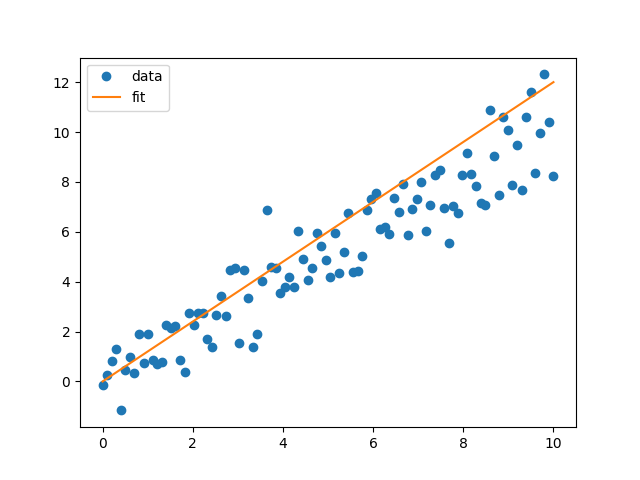
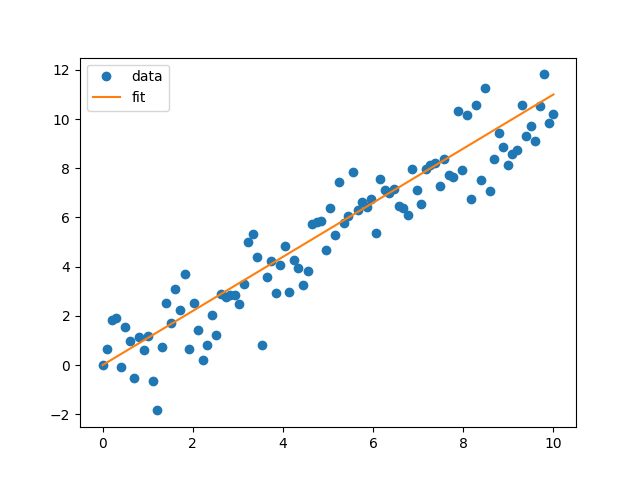
Quadratic line fit

diff --git a/_posts/2025-11-17-blog-post-3.md b/_posts/2025-11-17-blog-post-3.md
@@ -13,8 +13,9 @@ I have used Gaussian process and it being used extensively in fields such as ast
 
 In this blog post, I will give an introduction to Gaussian processes to a non-expert who are interested in learning and using this stastical tool.
 
-# Motivation: A straight line model
-We start with a simple linear model within the Bayesian framework. We will define the model as 
+# Motivation: A linear model
+
+Let's say that we have some data and we wish to fit out model to the data to infer its properties. We need a model that has the necessary flexibility to fit whatever shape our data is. If the data is simple enough, such as straight line with some noise, we can start with a simple linear model. We will define the model as 
 $$\begin{align}
 f(x) = \alpha_1 x + \alpha_0.
 \end{align}
@@ -58,7 +59,7 @@ y = x + np.random.normal(loc=0, scale=1, size=100)
 # fit the data
 result = minimize(
     neg_likelihood,
-    x0 = np.array([0., 1.2]),
+    x0 = np.array([0., 1.1]),
     args = (y, x),
 )
 params = result.x
@@ -72,21 +73,33 @@ plt.show()
 
 ```
 
-This is the data and the straight line fit. It looks pretty good.
+This is the data and the straight line fit. It looks pretty good. However, reality is never this simple and most of the time we don't get data that can be fit by a straight line. What do we do, we can start increase the complexity and make the model more flexible. 
 
 ![]({{ '/assets/images/straight_line_fit.png' | relative_url}})
 
+## Turn it up a notch: a quadratic model
+
+We will use a more complex model with a quadratic model
+$$\begin{align}
+f(x) = \alpha_1 x + \alpha_0.
+\end{align}
+$$
+We will make the same assumption as before that the data is distributed as a Gaussian distribution. Performing the same operation as above, maximising the likelihood with our new model $$f(x)$$. We get the following fit. 
+
+![]({{ '/assets/images/quadratic_line_fit.png' | relative_url}})
+
+Okay, so as the features in the data becomes more complex, we need more complex models to fit the data. This is the aim of the game, to make a very flexible model to fit all of these really complicated features in the data that reality my throw at us. A simple way is to keep adding more and more to your model. We have already done this so far by considering the $$n=1$$ and $$n=2$$ case for the polynomial case and then we add $$x^3$$ and $$x^4$$ and so on. 
 
 # Weight-space Formulation
 
-We can enhance this model by projecting the inputs into a higher dimensional feature space and apply our model there. We can apply a "kernel trick" to carry out the computation implicitly in the high dimensional space.
+We can start to get to what a Gaussian process is. We will begin our approach by creating a very flexible model by generalising the process of adding more features that we did in the previous section. 
 
-In our model $$\mu$$, we assume that there are a number of systematic effects that are not explicitly described by functions, but we know exists in the data. In other words, we don't know weight of each of those systematics. Hence, we assign an unknown weight $$w$$ for our systematics in our model
+In our new model $$\mu$$, we assume that there are a number of systematic effects that are not explicitly described by functions, but we know exists in the data. In other words, we don't know weight of each of those systematics. Hence, we assign an unknown weight $$w$$ for our systematics in our model
 
 $$\begin{align}
 f(\theta) = \mu(\theta) + A*w
 \end{align}$$
-where $$\theta$$ is the parameters, $$A$$ is called a design matrix. We can define a standard likelihood for our data with Gaussian noise
+where $$\theta$$ is the parameters, $$A$$ is called a design matrix. This design matrix represents how the weights affect our model $$f(x)$$. You can think of this as the $$x$$ and $$x^2$$ terms of our model, except it is generalised to include terms $$x^n$$ where n apporaches very large. We are left with a massive matrix which allows much greater flexibility to model complicated datasets. We can define a standard likelihood for our data with Gaussian noise
 
 $$\begin{align}
 \mathcal{L}(d|\theta,\sigma, w) = \frac{1}{(2\pi C)}\exp\left(-\frac{1}{2}|y-f(\theta)|^T C^{-1}|y-f(\theta)|\right)
